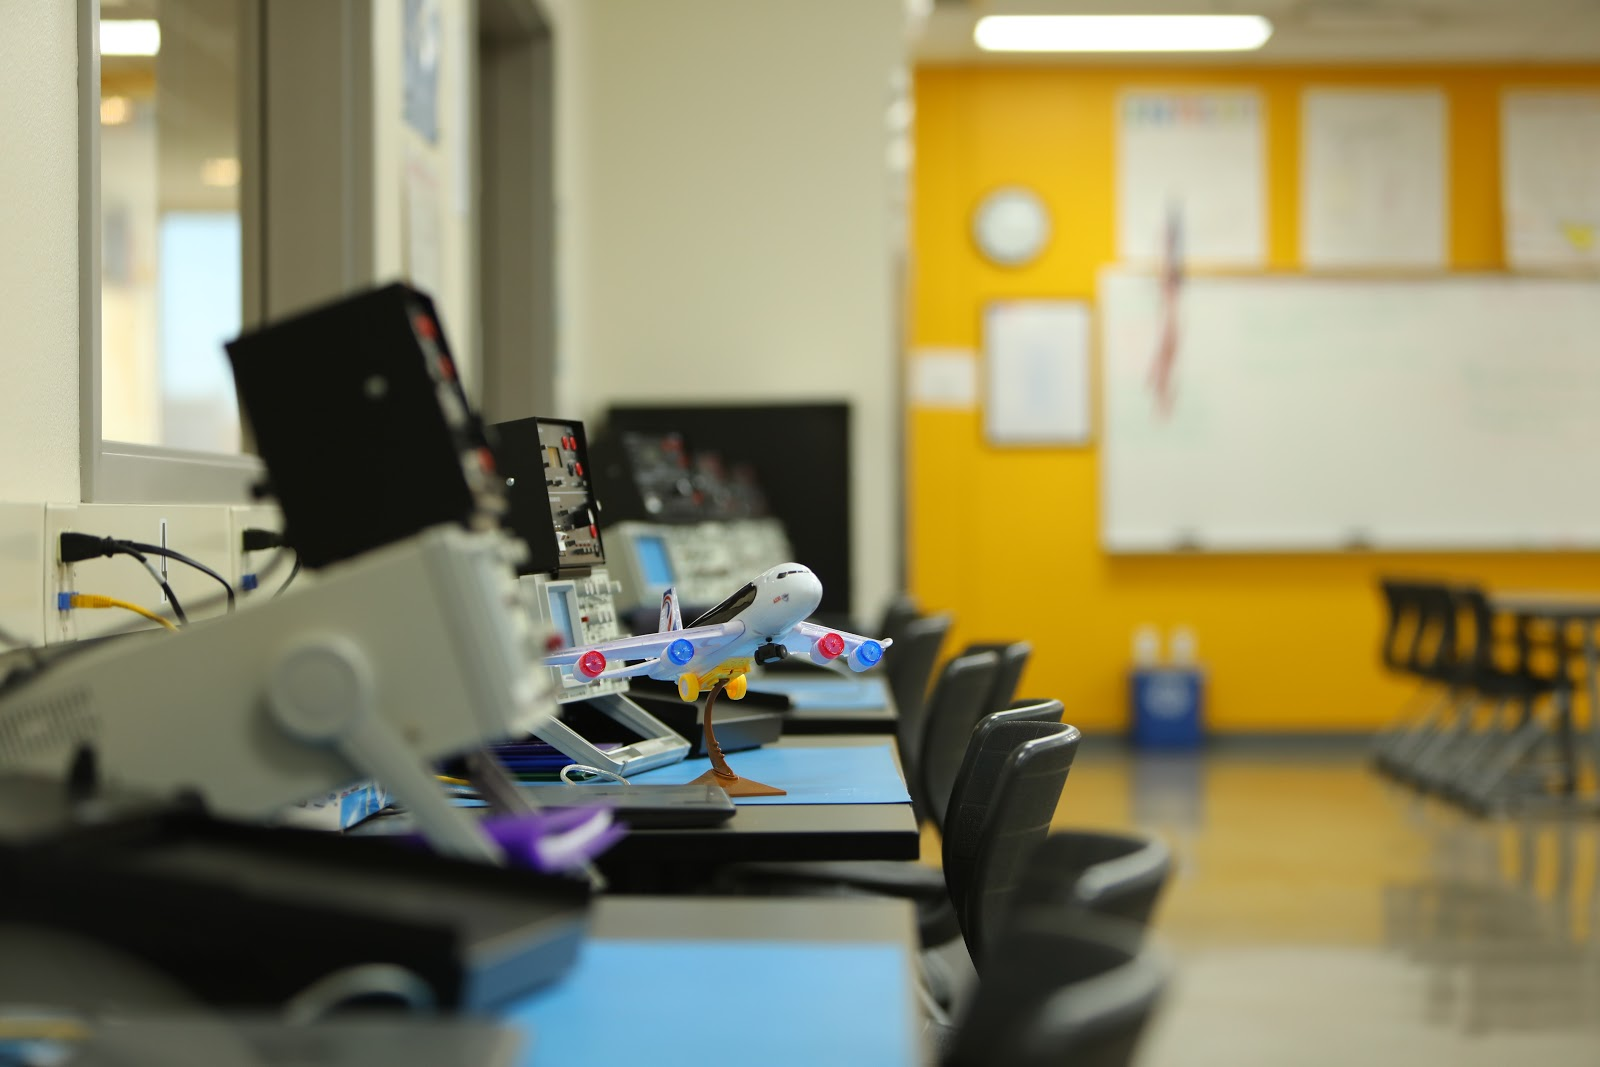
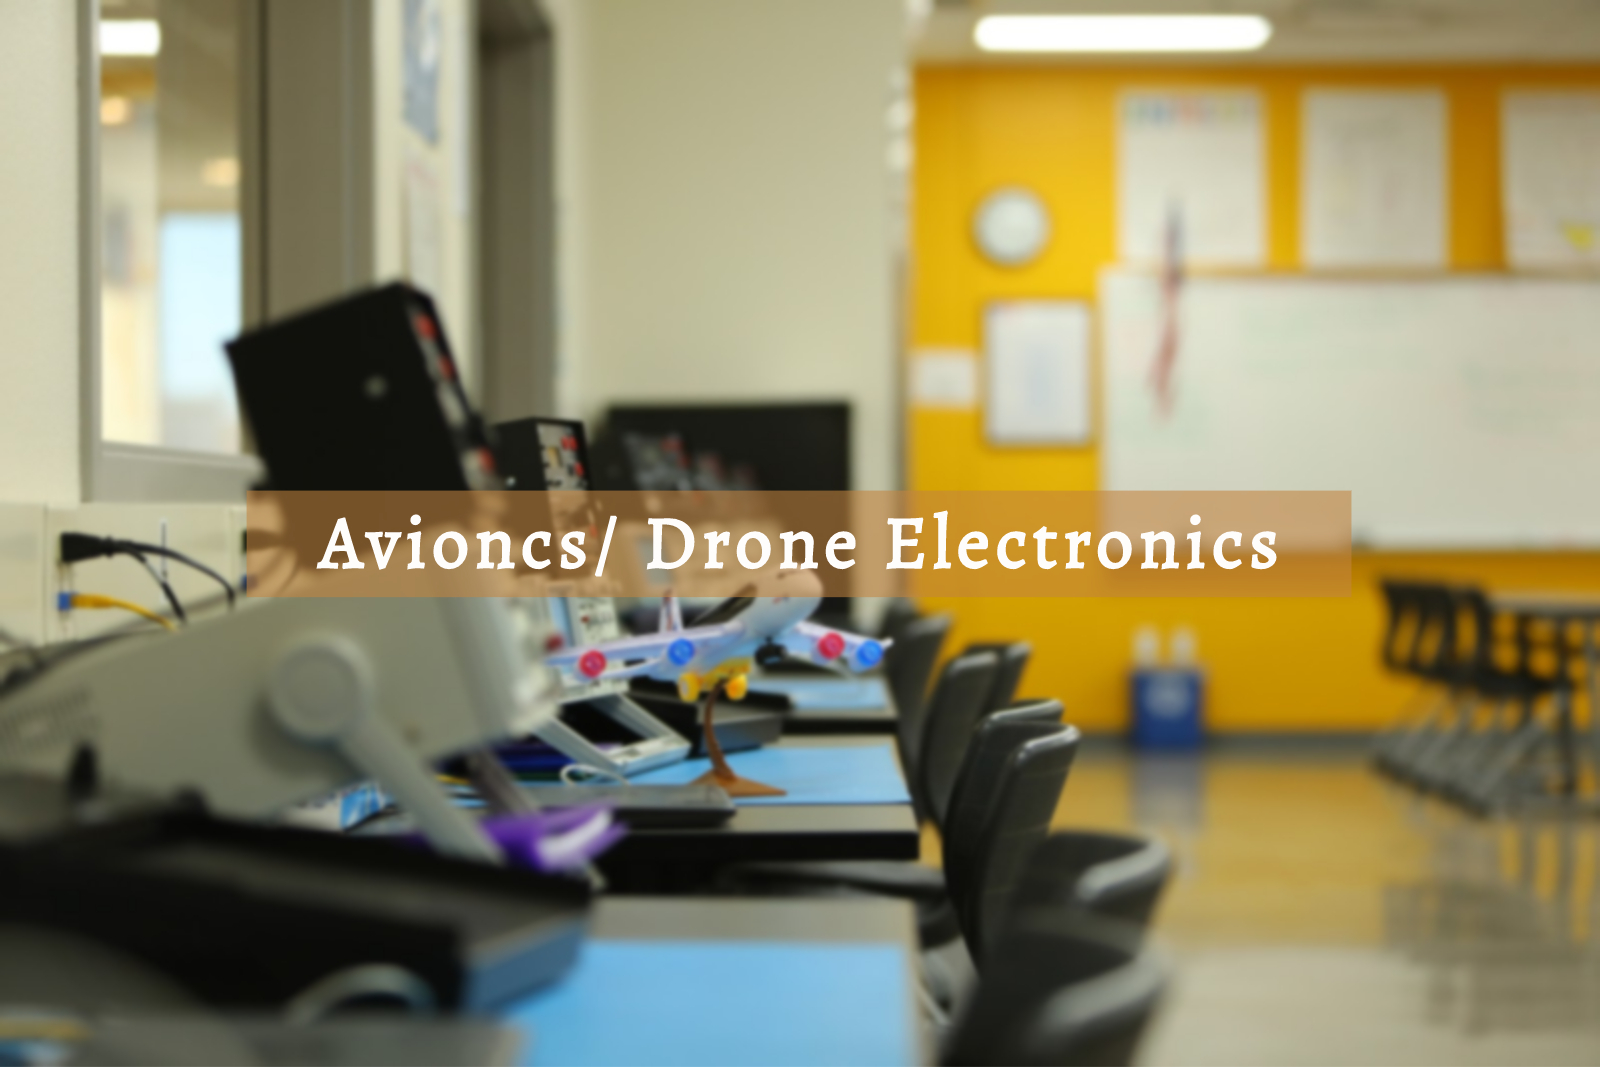
Update 5/2
image to be displayed at the beginning.

diff --git a/index.html b/index.html
@@ -12,16 +12,17 @@
 </head>
 
 <body>
-    <nav>
+    <!-- <nav>
         <img src="logo.png" alt="" id="logo">
         <ul>
             <li><a href="#view">OverView</a></li>
             <li><a href="#Requirments">Requirments</a></li>
             <li><a href="#Career">Career Certification and Pathway</a></li>
         </ul>
-    </nav>
+    </nav> -->
 
     <article id="three">
+        <img src="AVD_2.jpg" alt="Avionics">
         <h1>3 easy steps!</h1>
         <section>
             <div class="container">

diff --git a/main.css b/main.css
@@ -4,7 +4,8 @@
 
 img {
     background: no-repeat;
-
+    width: 100%;
+    height: auto;
 }
 
 section {
@@ -169,7 +170,7 @@ body {
 
 article {
     display: block;
-    width: 79%;
+    /* width: 79%; */
     height: 100%;
     overflow: scroll;
     background-color: rgb(231, 230, 230);
@@ -248,4 +249,8 @@ li a:hover {
     margin-top: 30px;
     border-radius: 10px;
 
+}
+
+header {
+    display: none;
 }

diff --git a/main.js b/main.js
@@ -1,3 +1,3 @@
-window.onload = function () {
-    alert("welcome to the Avionics/ Drone Electronics page!")
-}
+// window.onload = function () {
+//     alert("welcome to the Avionics/ Drone Electronics page!")
+// }
